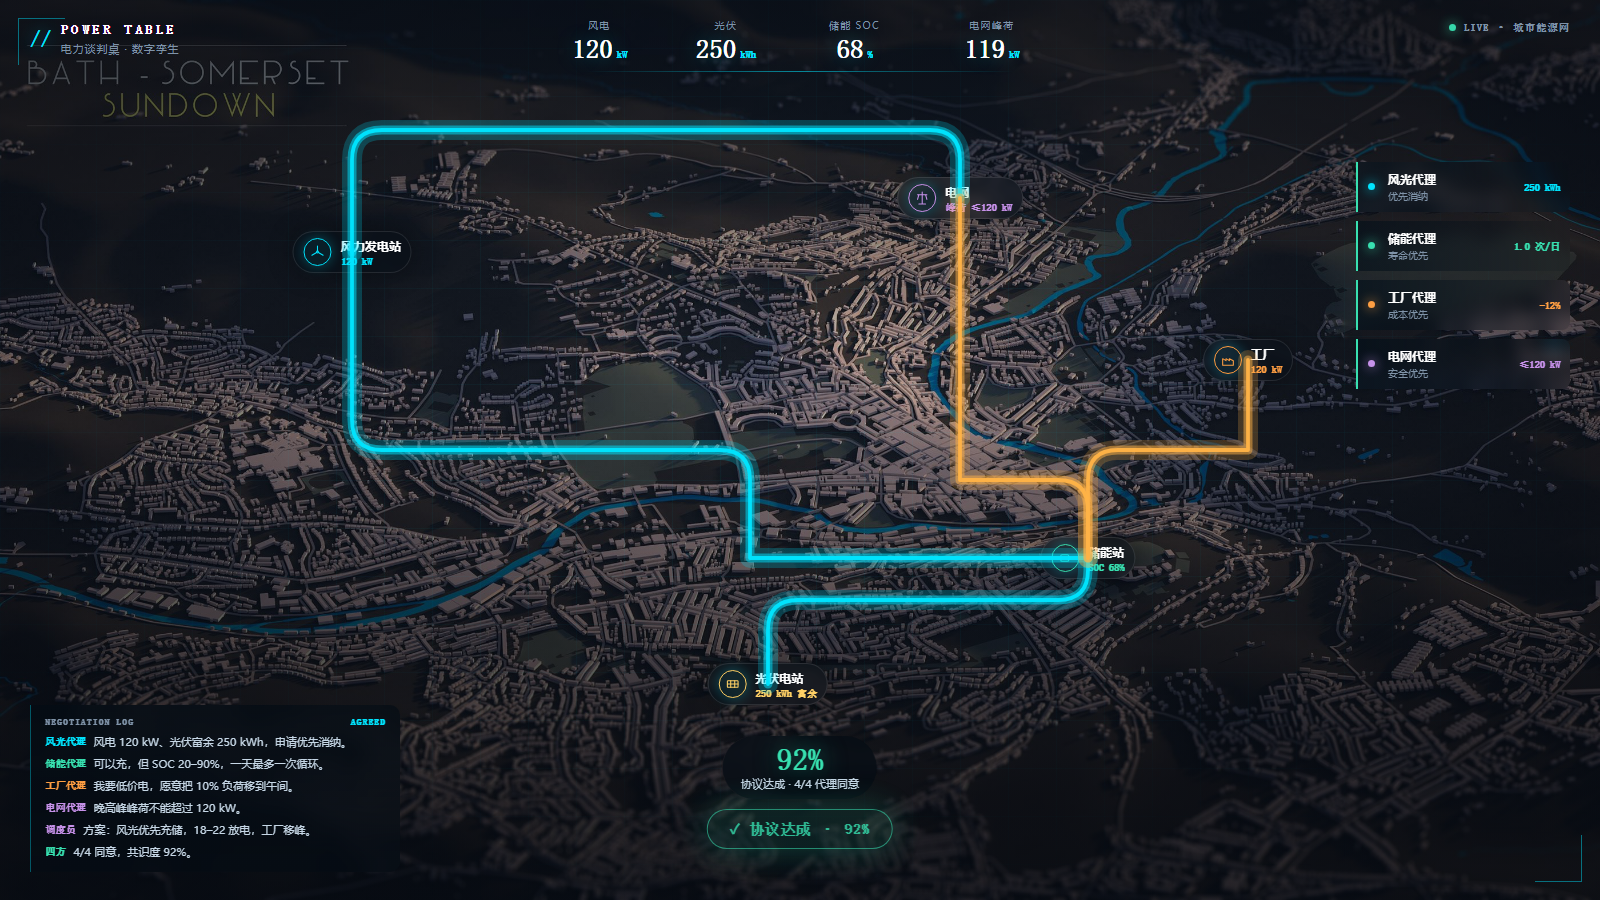
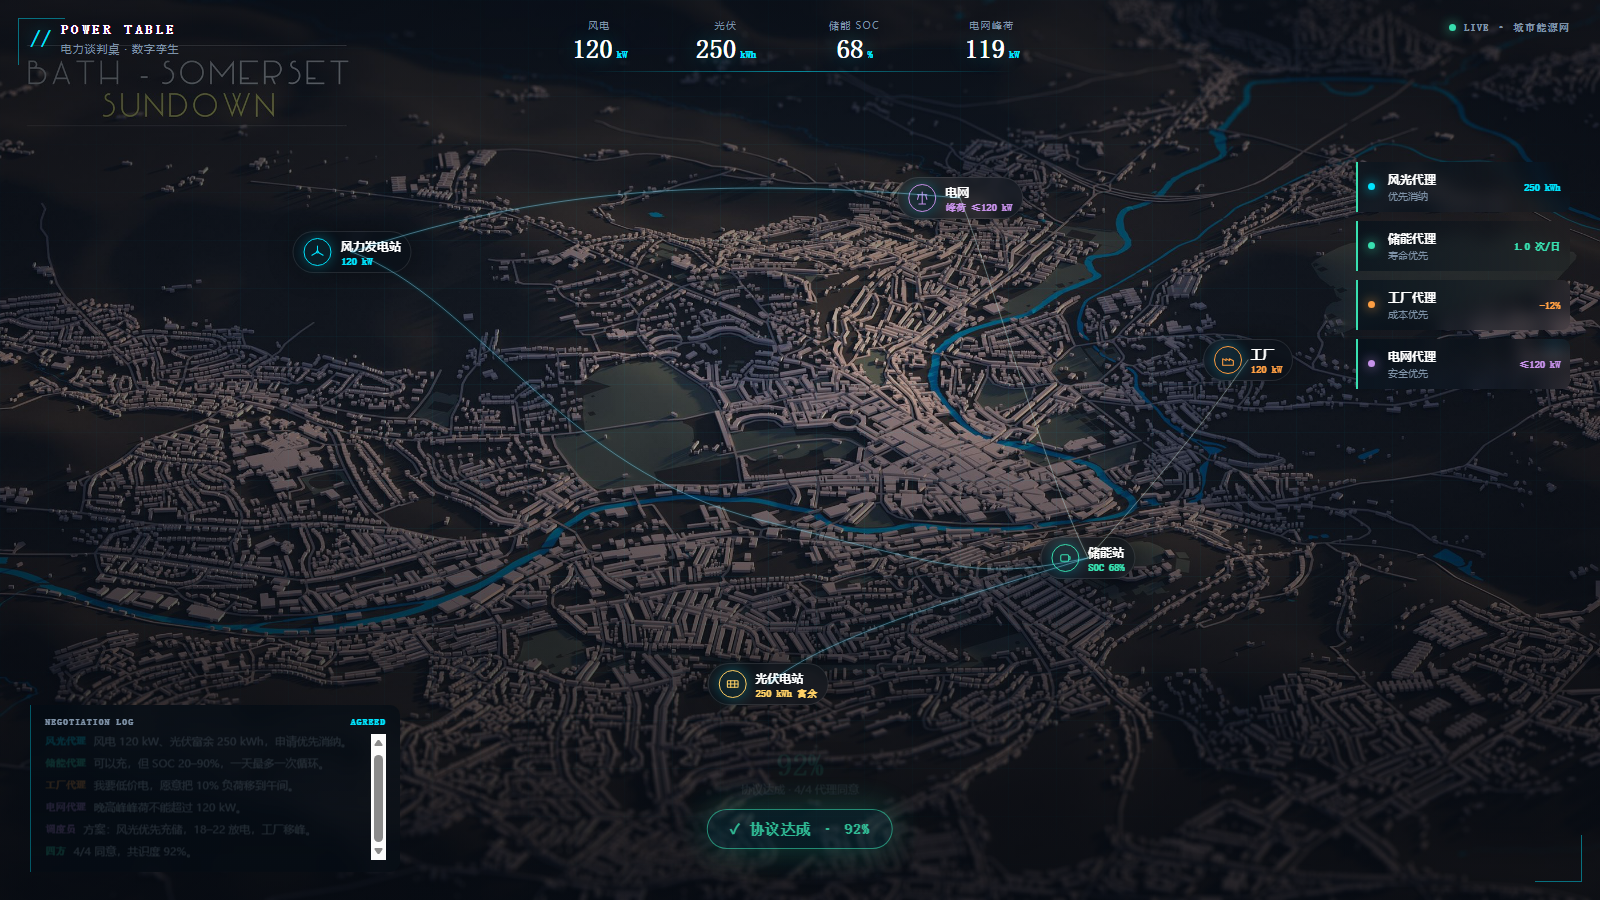
style: thin smooth neon lines matching 3.png reference
- trunk 3px / branch 2px, glow 2-3x line width
- smooth curves following city roads
- smaller flowing light dots; other UI unchanged

Changed region(s): [[0.1875, 0.1244, 0.8125, 0.7778], [0.0312, 0.8089, 0.25, 0.9644], [0.4688, 0.8089, 0.5312, 0.9022]]

diff --git a/app/public/twin.html b/app/public/twin.html
@@ -62,23 +62,23 @@
         </filter>
       </defs>
       <!-- 演示前先描好的城市道路路径 -->
-      <path class="ts-route" d="M352,252 L352,420 Q352,450 382,450 L720,450 Q750,450 750,480 L750,558 L1088,558"/>
-      <path class="ts-route" d="M768,684 L768,630 Q768,600 798,600 L1058,600 Q1088,600 1088,570 L1088,558"/>
-      <path class="ts-route" d="M352,252 L352,160 Q352,130 382,130 L930,130 Q960,130 960,160 L960,198"/>
-      <path class="ts-route" d="M1088,558 L1088,480 Q1088,450 1118,450 L1248,450 L1248,360"/>
-      <path class="ts-route" d="M1088,558 L1088,510 Q1088,480 1058,480 L960,480 L960,198"/>
+      <path class="ts-route" d="M352,252 C480,300 560,470 760,520 S980,580 1088,558"/>
+      <path class="ts-route" d="M768,684 C820,640 950,600 1088,558"/>
+      <path class="ts-route" d="M352,252 C560,180 760,180 960,198"/>
+      <path class="ts-route" d="M1088,558 C1140,500 1200,430 1248,360"/>
+      <path class="ts-route" d="M1088,558 C1040,460 1000,300 960,198"/>
 
       <!-- 电力按协议流动 -->
-      <path class="ts-path wind" d="M352,252 L352,420 Q352,450 382,450 L720,450 Q750,450 750,480 L750,558 L1088,558"/>
-      <path class="ts-path pv" d="M768,684 L768,630 Q768,600 798,600 L1058,600 Q1088,600 1088,570 L1088,558"/>
-      <path class="ts-path wind2" d="M352,252 L352,160 Q352,130 382,130 L930,130 Q960,130 960,160 L960,198"/>
-      <path class="ts-path factory" d="M1088,558 L1088,480 Q1088,450 1118,450 L1248,450 L1248,360"/>
-      <path class="ts-path grid" d="M1088,558 L1088,510 Q1088,480 1058,480 L960,480 L960,198"/>
-      <circle class="ts-particle wind" r="4.5"><animateMotion dur="2.8s" repeatCount="indefinite" path="M352,252 L352,420 Q352,450 382,450 L720,450 Q750,450 750,480 L750,558 L1088,558"/></circle>
-      <circle class="ts-particle pv" r="4.5"><animateMotion dur="3.1s" repeatCount="indefinite" path="M768,684 L768,630 Q768,600 798,600 L1058,600 Q1088,600 1088,570 L1088,558"/></circle>
-      <circle class="ts-particle wind2" r="4.5"><animateMotion dur="3.4s" repeatCount="indefinite" path="M352,252 L352,160 Q352,130 382,130 L930,130 Q960,130 960,160 L960,198"/></circle>
-      <circle class="ts-particle factory" r="4.5"><animateMotion dur="2.4s" repeatCount="indefinite" path="M1088,558 L1088,480 Q1088,450 1118,450 L1248,450 L1248,360"/></circle>
-      <circle class="ts-particle grid" r="4.5"><animateMotion dur="2.6s" repeatCount="indefinite" path="M1088,558 L1088,510 Q1088,480 1058,480 L960,480 L960,198"/></circle>
+      <path class="ts-path wind" d="M352,252 C480,300 560,470 760,520 S980,580 1088,558"/>
+      <path class="ts-path pv" d="M768,684 C820,640 950,600 1088,558"/>
+      <path class="ts-path wind2" d="M352,252 C560,180 760,180 960,198"/>
+      <path class="ts-path factory" d="M1088,558 C1140,500 1200,430 1248,360"/>
+      <path class="ts-path grid" d="M1088,558 C1040,460 1000,300 960,198"/>
+      <circle class="ts-particle wind" r="2.2"><animateMotion dur="2.8s" repeatCount="indefinite" path="M352,252 C480,300 560,470 760,520 S980,580 1088,558"/></circle>
+      <circle class="ts-particle pv" r="2.2"><animateMotion dur="3.1s" repeatCount="indefinite" path="M768,684 C820,640 950,600 1088,558"/></circle>
+      <circle class="ts-particle wind2" r="2.2"><animateMotion dur="3.4s" repeatCount="indefinite" path="M352,252 C560,180 760,180 960,198"/></circle>
+      <circle class="ts-particle factory" r="2.2"><animateMotion dur="2.4s" repeatCount="indefinite" path="M1088,558 C1140,500 1200,430 1248,360"/></circle>
+      <circle class="ts-particle grid" r="2.2"><animateMotion dur="2.6s" repeatCount="indefinite" path="M1088,558 C1040,460 1000,300 960,198"/></circle>
     </svg>
 
     <section class="ts-log" id="ts-log" aria-live="polite">

diff --git a/app/public/twin-stage.css b/app/public/twin-stage.css
@@ -310,7 +310,7 @@ body {
 
 .ts-path {
   fill: none;
-  stroke-width: 3.8;
+  stroke-width: var(--w, 2.6);
   stroke-linecap: round;
   stroke-linejoin: round;
   stroke-dasharray: none;
@@ -318,26 +318,26 @@ body {
   transition: opacity 0.5s ease;
 }
 
-/* 外晕 / 中层辉光（由 JS 克隆生成） */
-.ts-glow { stroke-width: 20; opacity: 0; }
-.ts-mid { stroke-width: 9; opacity: 0; }
+/* 外晕 / 中层辉光（由 JS 克隆生成），宽度为线宽的 2–3 倍 */
+.ts-glow { stroke-width: calc(var(--w, 2.6) * 3); opacity: 0; }
+.ts-mid { stroke-width: calc(var(--w, 2.6) * 1.8); opacity: 0; }
 
 /* 演示前先描好的城市道路路径 */
 .ts-route {
   fill: none;
   stroke: rgba(170, 225, 255, 0.55);
-  stroke-width: 2;
+  stroke-width: 1;
   stroke-linecap: round;
   stroke-linejoin: round;
   stroke-dasharray: none;
-  opacity: 0.9;
+  opacity: 0.8;
   transition: opacity 0.4s ease;
 }
 
 .ts.is-flow .ts-route { opacity: 0.28; }
 
-.ts-path.wind, .ts-path.wind2, .ts-path.pv { stroke: #00e5ff; }
-.ts-path.factory, .ts-path.grid { stroke: #ffb347; }
+.ts-path.wind, .ts-path.wind2, .ts-path.pv { --w: 3; stroke: #00e5ff; }
+.ts-path.factory, .ts-path.grid { --w: 2; stroke: #ffb347; }
 
 .ts-particle { fill: #fff; opacity: 0; transition: opacity 0.5s ease; }
 .ts-particle.wind, .ts-particle.wind2 { fill: #e9fdff; }
@@ -350,8 +350,8 @@ body {
   animation: none;
 }
 
-.ts.is-flow .ts-mid { opacity: 0.5; }
-.ts.is-flow .ts-glow { opacity: 0.22; }
+.ts.is-flow .ts-mid { opacity: 0.3; }
+.ts.is-flow .ts-glow { opacity: 0.11; }
 .ts.is-flow .ts-particle { fill: #fff; opacity: 1; }
 
 @keyframes tsDash { to { stroke-dashoffset: -20; } }
